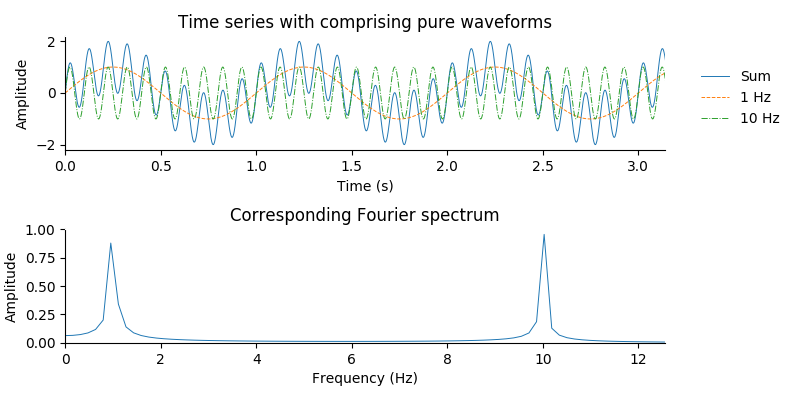
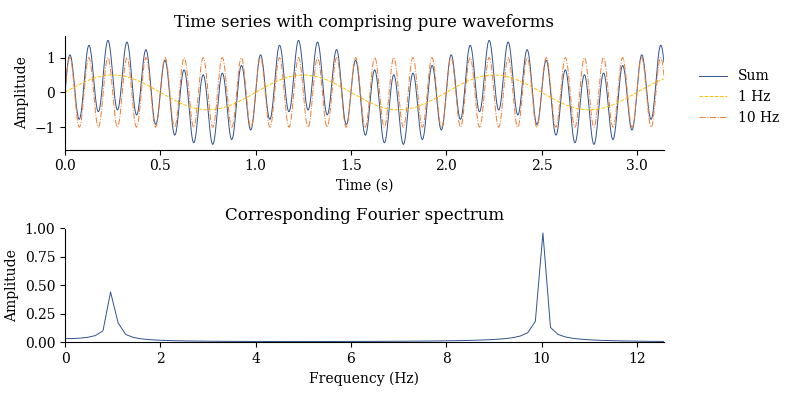
Nyquist demo for aliasing.

diff --git a/calcs/nyquist_demo.py b/calcs/nyquist_demo.py
@@ -1,0 +1,45 @@
+import numpy as np
+import matplotlib.pyplot as plt
+
+plt.rcParams["font.family"] = "serif"
+
+# sample of 6 Hz continuous
+sample_length = 2
+sample_frequency = 10
+t = np.linspace(0, sample_length, 1000)
+y = np.sin(2*np.pi*6*t)
+
+# plt.subplot(2, 1, 2)
+plt.plot(t, y, '#2F528F')
+
+n = np.linspace(0, sample_length, sample_length*sample_frequency + 1)
+Y = np.sin(2*np.pi*1*n)
+markerline, stemlines, baseline = plt.stem(n, Y, basefmt=' ', )
+plt.setp(stemlines, 'color', '#FFC000')
+plt.setp(markerline, 'color', '#FFC000')
+
+y1 = np.sin(2*np.pi*1*t)
+plt.plot(t, y1, '--', color = '#ED7D31')
+
+fig = plt.gcf()
+fig.set_size_inches(8, 4)
+
+axes = plt.gca()
+axes.axhline(y=0, color='k', linewidth=0.7)
+axes.set_facecolor('white')
+axes.spines['top'].set_color('white')
+axes.spines['right'].set_color('white')
+
+plt.title('Aliasing from incorrect sampling')
+plt.xlabel('Time (s)')
+plt.ylabel('Amplitude')
+plt.legend(['Continuous signal', 'Alias signal', 'Discrete sample'], bbox_to_anchor=(1.05, 0.75), loc='upper left', borderaxespad=0, frameon=False)
+
+axes = plt.gca()
+legend = axes.get_legend()
+legend.legendHandles[1].set_color('#ED7D31')
+legend.legendHandles[2].set_color('#FFC000')
+# legend.legendHandles[2].set_colou('#ED7D31')
+
+plt.tight_layout(pad=1.0, w_pad=0.5, h_pad=1.0)
+plt.savefig('nyquist_demo.png')

diff --git a/calcs/fourier_demo.py b/calcs/fourier_demo.py
@@ -2,16 +2,18 @@ import numpy as np
 import matplotlib.pyplot as plt
 
 # plt.style.use('ggplot')
-
+plt.rcParams["font.family"] = "serif"
 
 sample_freq = 1000
 sample_period = 1/sample_freq
 
 t = np.arange(0, 2*np.pi, sample_period)
-y1 = np.sin(2*np.pi*1*t)
+y1 = 0.5*np.sin(2*np.pi*1*t)
 y10 = np.sin(2*np.pi*10*t)
 plt.subplot(2, 1, 1)
-plt.plot(t, y1 + y10, t, y1, '--', t, y10, '-.', linewidth = 0.7)
+plt.plot(t, y1 + y10, color='#2F528F', linewidth = 0.7)
+plt.plot(t, y1, '--', color='#FFC000', linewidth = 0.7)
+plt.plot(t, y10, '-.', color='#ED7D31', linewidth = 0.7)
 fig = plt.gcf()
 fig.set_size_inches(8, 4)
 plt.title('Time series with comprising pure waveforms')
@@ -29,7 +31,7 @@ mag = 2*np.abs(Y)/len(t)
 freq = np.linspace(0, len(t), len(t))/(2*np.pi)
 
 plt.subplot(2, 1, 2)
-plt.plot(freq, mag, linewidth = 0.7)
+plt.plot(freq, mag, '#2F528F', linewidth = 0.7)
 fig = plt.gcf()
 fig.set_size_inches(8, 4)
 plt.title('Corresponding Fourier spectrum')
